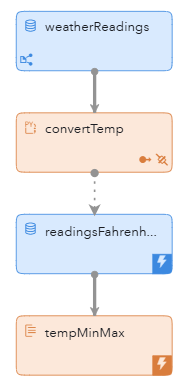
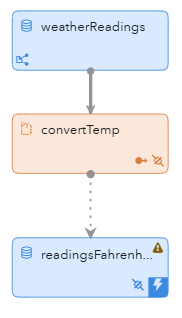
chore: move agg to external cq + update

diff --git a/Utilities/forwarding/README.md b/Utilities/forwarding/README.md
@@ -44,12 +44,14 @@ The workflow contains two Continuous Queries:
 - The weatherReadings window is a Source window that reads the input file.
 - The convertTemp window is a Python window that performs the transformation.
 - The readingsFahrenheitInternal window is a Source window that receives the forwarded events and writes them to an output file.
+- The readingsFahrenheitExternal window is a Source window that receives the forwarded events and passes them downstream for aggregation.
 - The tempMinMax window is an aggregate window that collates the highest and lowest temperatures recorded at each weather station.
-- The readingsFahrenheitExternal window is a Source window that receives the forwarded events and writes them to an output file.
 
 **NOTE:** In SAS Event Stream Processing Studio, you can toggle between the two continuous queries to see all of the windows. At the top of your screen, select **external** from the drop down list.  
 
 ## Internal Windows
+
+The internal contquery runs the temperature conversion and uses event forwarding to pass these events to a source window that saves the ouput to a file.
 
 ### internal/weatherReadings
 
@@ -80,10 +82,10 @@ Explore the settings for the readingsFahrenheitInternal window:
 2. In the right pane, expand **Properties**.
 3. Expand **Event Forwarding**. Notice the text that says, **Incoming connection for event forwarding**. It points to the `convertTemp` window in the `internal` continuous query, and the block size is `1`. 
 
-### internal/tempMinMax
-The tempMinMax aggregates the highest and lowest temperatures at each weather station using an aggregate window.
 
-## External Window
+## External Windows
+
+The external contquery receives events from the internal contquery and runs basic aggregation functions to find the minimum and maximum weather readings at each station.
 
 ### external/readingsFahrenheitExternal
 
@@ -91,6 +93,9 @@ Explore the settings for the readingsFahrenheitExternal window:
 1. Open the project in SAS Event Stream Processing Studio and select the readingsFahrenheit window. 
 2. In the right pane, expand **Properties**.
 3. Expand **Event Forwarding**. Notice the text that says, **Incoming connection for event forwarding**. It points to the `convertTemp` window in the `internal` continuous query, and the block size is `1`. 
+
+### external/tempMinMax
+The tempMinMax aggregates the highest and lowest temperatures at each weather station using an aggregate window.
 
 ## Event Forwarding Connection Active State
 Event Forwarding Connections can be made inactive by setting their active attribute to false, this can via the following steps:
@@ -128,7 +133,7 @@ When you test the project in ESP Studio, you will see results on the following t
 
 Event forwarding enables Source windows to act as destinations for transformed event streams. This allows continuous queries to be chained without external connectors. After creating the readingsFahrenheit stream, there are several extension options:
 
- - Add further processing by applying aggregations, threshold checks, anomaly detection, or rolling statistics in downstream continuous queries.
+ - Add further processing in the external contquery by applying aggregations, threshold checks, anomaly detection, or rolling statistics in downstream continuous queries.
  - Output to external systems by forwarding the transformed events to databases, message queues, or files for integration with other applications.
  - Extend Python logic by enriching events, adding validation, or incorporating lightweight analytics or model inference after forwarding.
  - Create branching pipelines by forwarding events to multiple destination windows or additional continuous queries to build modular, multi-stage event stream pipelines.
